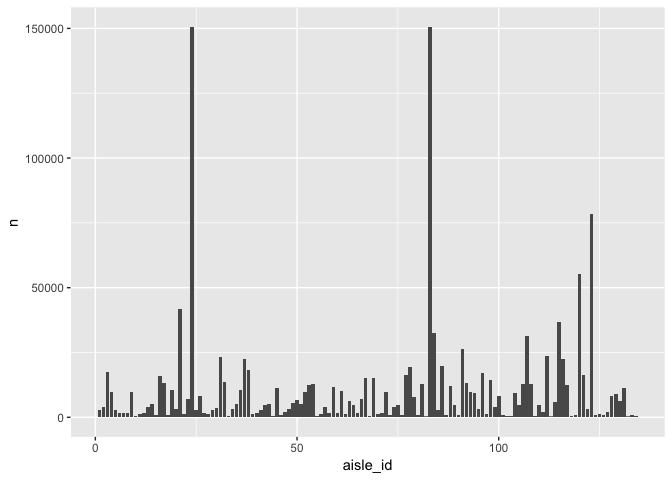
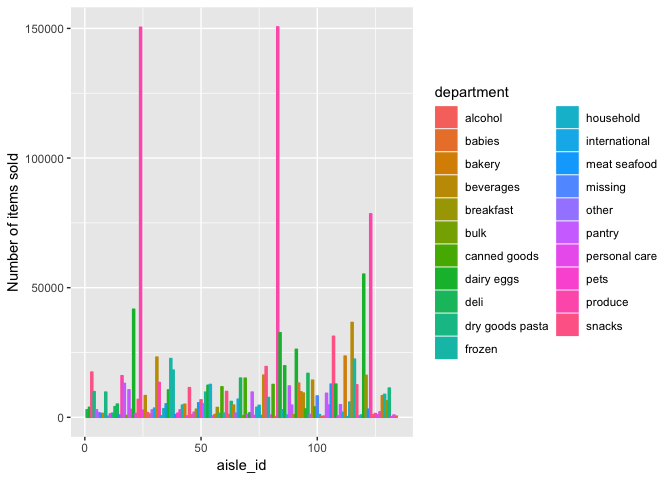
final

diff --git a/p8105_hw3_zdz2101.md b/p8105_hw3_zdz2101.md
@@ -22,9 +22,7 @@ This problem uses the BRFSS data. DO NOT include this dataset in your local data
 
 First, do some data cleaning:
 
-format the data to use appropriate variable names; focus on the “Overall Health” topic include only responses from “Excellent” to “Poor” organize responses as a factor taking levels from “Excellent” to “Poor” Using this dataset, do or answer the following (commenting on the results of each):
-
-In 2002, which states were observed at 7 locations? Make a “spaghetti plot” that shows the number of observations in each state from 2002 to 2010. Make a table showing, for the years 2002, 2006, and 2010, the mean and standard deviation of the proportion of “Excellent” responses across locations in NY State. For each year and state, compute the average proportion in each response category (taking the average across locations in a state). Make a five-panel plot that shows, for each response category separately, the distribution of these state-level averages over time.
+format the data to use appropriate variable names; focus on the “Overall Health” topic include only responses from “Excellent” to “Poor” organize responses as a factor taking levels from “Excellent” to “Poor”
 
 ``` r
 data("brfss_smart2010")
@@ -32,8 +30,13 @@ brfss_smart2010 <- brfss_smart2010 %>%
   janitor::clean_names() %>%
   filter(topic == "Overall Health") %>%
   mutate(response = factor(response, levels = c("Poor", "Fair", "Good", "Very good", "Excellent")))
+```
 
-#In 2002, which states were observed at 7 locations?
+#### Using this dataset, do or answer the following (commenting on the results of each):
+
+#### In 2002, which states were observed at 7 locations?
+
+``` r
 locations_2002 <- brfss_smart2010 %>%
   filter(year == 2002) %>%
   group_by(locationabbr, locationdesc) %>%
@@ -41,58 +44,75 @@ locations_2002 <- brfss_smart2010 %>%
   group_by(locationabbr) %>%
   count(locationabbr) %>%
   filter(n == 7)
+locations_2002
 ```
+
+    ## # A tibble: 3 x 2
+    ## # Groups:   locationabbr [3]
+    ##   locationabbr     n
+    ##   <chr>        <int>
+    ## 1 CT               7
+    ## 2 FL               7
+    ## 3 NC               7
 
 There are 3 states that were observed at 7 locations: Connecticut, Florida, North Carolina.
 
+#### Make a “spaghetti plot” that shows the number of observations in each state from 2002 to 2010.
+
 ``` r
-#Spaghetti plot
-spaghetti_plot<- brfss_smart2010 %>%
+brfss_smart2010 %>%
   group_by(locationabbr, locationdesc, year) %>%
   distinct(locationdesc) %>%
   group_by(locationabbr, year) %>%
   count(locationabbr) %>%
-  ggplot(.,aes(x = year, y = n, color = locationabbr)) + geom_line()
-
-spaghetti_plot
+  ggplot(.,aes(x = year, y = n, color = locationabbr)) +
+  geom_line() +
+  ylab("Number of observed locations")
 ```
 
 ![](p8105_hw3_zdz2101_files/figure-markdown_github/Problem%201.2-1.png)
 
+There seems to be this wild outlier-like blip in 2007 by Florida that happens again in 2010. Otherwise, it looks like majority of the states stayed pretty stable throughout the years.
+
+#### Make a table showing, for the years 2002, 2006, and 2010, the mean and standard deviation of the proportion of “Excellent” responses across locations in NY State.
+
 ``` r
-#Table
 table_02_06_10 <- brfss_smart2010 %>%
   filter(year %in% c(2002,2006,2010) & locationabbr == "NY" & response == "Excellent") %>%
   group_by(locationabbr, year) %>%
-  summarise(mean(data_value), sd(data_value))
+  summarise(excellent_mean = mean(data_value),
+            excenllent_sd = sd(data_value))
   
 kable(table_02_06_10)
 ```
 
-| locationabbr |  year|  mean(data\_value)|  sd(data\_value)|
-|:-------------|-----:|------------------:|----------------:|
-| NY           |  2002|           24.04000|         4.486424|
-| NY           |  2006|           22.53333|         4.000833|
-| NY           |  2010|           22.70000|         3.567212|
+| locationabbr |  year|  excellent\_mean|  excenllent\_sd|
+|:-------------|-----:|----------------:|---------------:|
+| NY           |  2002|         24.04000|        4.486424|
+| NY           |  2006|         22.53333|        4.000833|
+| NY           |  2010|         22.70000|        3.567212|
+
+The mean proportion of excellent responses in NY state stays somewhere between and 22.53% and 24.04% . There seems to be a trend where the standard deviation seems to decrease over time.
+
+#### For each year and state, compute the average proportion in each response category (taking the average across locations in a state). Make a five-panel plot that shows, for each response category separately, the distribution of these state-level averages over time.
 
 ``` r
-#Each year, state, response category, average proportion
-five_panel_plot <- brfss_smart2010 %>%
+brfss_smart2010 %>%
   group_by(locationabbr, year, response) %>%
-  summarise(mean(data_value)) %>%
-  ggplot(., aes(x = year, y = `mean(data_value)`, color = locationabbr)) + 
+  summarise(avg_prop_response = mean(data_value)) %>%
+  ggplot(., aes(x = year, y = avg_prop_response, color = locationabbr)) + 
   geom_line() +
   facet_grid(~response) +
   theme(axis.text.x = element_text(angle = 45),
         legend.position = "bottom") + 
   guides(colour = guide_legend(nrow = 3))
-
-five_panel_plot
 ```
 
     ## Warning: Removed 3 rows containing missing values (geom_path).
 
 ![](p8105_hw3_zdz2101_files/figure-markdown_github/Problem%201.4-1.png)
+
+It seems the average proportion in each response category stays pretty stable throughout the years in *most* states. With so many states it gets a little hard to interpret which state corresponds to which lines in this 5 paneled plot. But just by eyeballing it, poor response is generally somewhere between 2%-10%, fair response 5%-20%, good response 25%-35%, very good 25%-45%, and excellent response 10%-30%, respectively.
 
 Problem 2
 =========
@@ -101,53 +121,20 @@ This problem uses the Instacart data. DO NOT include this dataset in your local 
 
 The goal is to do some exploration of this dataset. To that end, write a short description of the dataset, noting the size and structure of the data, describing some key variables, and giving illstrative examples of observations. Then, do or answer the following (commenting on the results of each):
 
-How many aisles are there, and which aisles are the most items ordered from? Make a plot that shows the number of items ordered in each aisle. Order aisles sensibly, and organize your plot so others can read it. Make a table showing the most popular item aisles “baking ingredients”, “dog food care”, and “packaged vegetables fruits” Make a table showing the mean hour of the day at which Pink Lady Apples and Coffee Ice Cream are ordered on each day of the week; format this table for human readers (i.e. produce a 2 x 7 table).
-
 ``` r
 data("instacart")
-head(instacart)
+num_unique_orders <- length(unique(instacart$order_id))
+num_unique_products <- length(unique(instacart$product_name))
+num_unique_departments <- length(unique(instacart$department))
 ```
 
-    ## # A tibble: 6 x 15
-    ##   order_id product_id add_to_cart_ord… reordered user_id eval_set
-    ##      <int>      <int>            <int>     <int>   <int> <chr>   
-    ## 1        1      49302                1         1  112108 train   
-    ## 2        1      11109                2         1  112108 train   
-    ## 3        1      10246                3         0  112108 train   
-    ## 4        1      49683                4         0  112108 train   
-    ## 5        1      43633                5         1  112108 train   
-    ## 6        1      13176                6         0  112108 train   
-    ## # ... with 9 more variables: order_number <int>, order_dow <int>,
-    ## #   order_hour_of_day <int>, days_since_prior_order <int>,
-    ## #   product_name <chr>, aisle_id <int>, department_id <int>, aisle <chr>,
-    ## #   department <chr>
+The instacart dataset has 1384617 observations/rows and 15 variables/columns. There were 131209 unique orders made. There are 39123 unique products offered from 21 unique departments.
+
+##### How many aisles are there, and which aisles are the most items ordered from?
 
 ``` r
-length(unique(instacart$order_id))
-```
+num_unique_aisles <- length(unique(instacart$aisle))
 
-    ## [1] 131209
-
-``` r
-length(unique(instacart$user_id))
-```
-
-    ## [1] 131209
-
-``` r
-#How many aisles are there, and which aisles are the most items ordered from?
-length(unique(instacart$aisle))
-```
-
-    ## [1] 134
-
-``` r
-length(unique(instacart$aisle_id))
-```
-
-    ## [1] 134
-
-``` r
 most_items_ordered <- instacart %>%
   group_by(aisle) %>%
   count(aisle) %>%
@@ -166,24 +153,27 @@ head(most_items_ordered)
     ## 5 packaged cheese                41699
     ## 6 water seltzer sparkling water  36617
 
-There are 134 aisles. The top 6 aisles most items ordered from are fresh vegetables, fresh fruits, packaged vegetables fruits, yogurt, packaged cheese, water seltzer sparkling water.
+There are 134 aisles. The top 6 aisles most items ordered from are: fresh vegetables, fresh fruits, packaged vegetables fruits, yogurt, packaged cheese, water seltzer sparkling water. The aisles in which most items ordered seems about right, you would expect to see these "aisles" in grocery stores and supermarkets to take up the most square footage/real estate.
+
+#### Make a plot that shows the number of items ordered in each aisle. Order aisles sensibly, and organize your plot so others can read it.
 
 ``` r
-#Make a plot that shows the number of items ordered in each aisle. Order aisles sensibly, and organize your plot so others can read it.
 instacart %>%
-  group_by(aisle_id) %>%
+  group_by(department, aisle_id) %>%
   count(aisle_id) %>%
   arrange(aisle_id) %>%
-  ggplot(., aes(x = aisle_id, y = n)) +
-  geom_bar(stat="identity")
+  ggplot(., aes(x = aisle_id, y = n, color = department, fill = department)) +
+  geom_bar(stat="identity") +
+  ylab("Number of items sold")
 ```
 
 ![](p8105_hw3_zdz2101_files/figure-markdown_github/Problem%202.2-1.png)
 
-Aisles are ordered numerically.
+Aisles are ordered numerically and colored by the department they belong in. Just how we saw earlier with the fresh vegetables, fresh fruits, etc from the previous question, it is clear they belong in the "produce" department.
+
+#### Make a table showing the most popular item from aisles “baking ingredients”, “dog food care”, and “packaged vegetables fruits”
 
 ``` r
-#Make a table showing the most popular item aisles “baking ingredients”, “dog food care”, and “packaged vegetables fruits”
 most_popular <- instacart %>%
   filter(aisle %in% c("baking ingredients", "dog food care", "packaged vegetables fruits")) %>%
   group_by(aisle) %>%
@@ -232,8 +222,11 @@ kable(most_popular_items)
 | dog food care              | Snack Sticks Chicken & Rice Recipe Dog Treats |            30|
 | packaged vegetables fruits | Organic Baby Spinach                          |          9784|
 
+Among baking ingredients, light brown sugar is the most popular item sold which isn't all too surprising. When you thinking "baking" you think sweets and pastries (or at least I do) and sugar is near-essential ingredient in whatever you make. It is interesting to note how much more, practically &gt;300x more so, that the baby spinach is ordered than the snack sticks & rice recipe dog treats. I suppose this is good information to know how much "space" to dedicate to items/aisles.
+
+#### Make a table showing the mean hour of the day at which Pink Lady Apples and Coffee Ice Cream are ordered on each day of the week; format this table for human readers (i.e. produce a 2 x 7 table).
+
 ``` r
-#Make a table showing the mean hour of the day at which Pink Lady Apples and Coffee Ice Cream are ordered on each day of the week; format this table for human readers (i.e. produce a 2 x 7 table).
 desired_products <- instacart %>%
   filter(product_name %in% c("Pink Lady Apples","Coffee Ice Cream")) %>%
   select(order_hour_of_day, order_dow, product_name) %>%
@@ -250,6 +243,18 @@ kable(desired_products)
 | Coffee Ice Cream |  13.77419|  14.31579|  15.38095|   15.31818|  15.21739|  12.26316|  13.83333|
 | Pink Lady Apples |  13.44118|  11.36000|  11.70213|   14.25000|  11.55172|  12.78431|  11.93750|
 
+``` r
+desired_products_rounded <- round(desired_products[,-1])
+kable(cbind(desired_products[,1], desired_products_rounded))
+```
+
+| Product          |  Sunday|  Monday|  Tuesday|  Wednesday|  Thursday|  Friday|  Saturday|
+|:-----------------|-------:|-------:|--------:|----------:|---------:|-------:|---------:|
+| Coffee Ice Cream |      14|      14|       15|         15|        15|      12|        14|
+| Pink Lady Apples |      13|      11|       12|         14|        12|      13|        12|
+
+Important to note that in the first table this is in terms of a "mean" hour of the day and in military/24 hour time. For example, a mean time of 13.5 would be 1:30pm. In terms of decimals, every 0.25 is equivalent to 15 minutes. However, our original data was in integer data/whole hour time so I thought it would be worth it to see the resulting table in rounded form (traditional rounding, &gt;0.5 rounds up, round down otherwise). Coffee Ice cream generally sells in the afternoon, a little earlier so on Saturdays interestingly enough. Pink Lady apples are also generally sold mid-day, from 11-14 hours (11am - 2pm).
+
 Problem 3
 =========
 
@@ -257,7 +262,7 @@ This problem uses the NY NOAA data. DO NOT include this dataset in your local da
 
 The goal is to do some exploration of this dataset. To that end, write a short description of the dataset, noting the size and structure of the data, describing some key variables, and indicating the extent to which missing data is an issue. Then, do or answer the following (commenting on the results of each):
 
-Do some data cleaning. Create separate variables for year, month, and day. Ensure observations for temperature, precipitation, and snowfall are given in reasonable units. For snowfall, what are the most commonly observed values? Why? Make a two-panel plot showing the average temperature in January and in July in each station across years. Is there any observable / interpretable structure? Any outliers? Make a two-panel plot showing (i) tmax vs tmin for the full dataset (note that a scatterplot may not be the best option); and (ii) make a plot showing the distribution of snowfall values greater than 0 and less than 100 separately by year.
+Do some data cleaning. Create separate variables for year, month, and day. Ensure observations for temperature, precipitation, and snowfall are given in reasonable units. For snowfall, what are the most commonly observed values? Why?
 
 ``` r
 data("ny_noaa")
@@ -266,32 +271,31 @@ ny_noaa <- ny_noaa %>%
          snow = snow/10,
          snwd = snwd/10,
          tmax = as.numeric(tmax)/10,
-         tmin = as.numeric(tmin)/10) 
+         tmin = as.numeric(tmin)/10,
+         year = year(date),
+         month = month(date),
+         day = weekdays(date))
 
 #summary(ny_noaa$date) -- everyday 1/1/81 - 12/31/10
 ```
 
-The ny\_noaa dataset is quite large, 2595176 observations with 7 variables. A little breakdown of each variable: - There are 747 unique different id's in this dataset. - Dates range for a 30 year span from January 1st, 1981 to December 31st, 2010.
+The ny\_noaa dataset is quite large, 2595176 observations with 10 variables. A little breakdown of each variable: - There are 747 unique different id's in this dataset. - Dates range for a 30 year span from January 1st, 1981 to December 31st, 2010.
 
 ``` r
 kable(t(apply(ny_noaa[,3:7], 2, summary)))
 ```
 
-|         |      Min.|     1st Qu.|    Median|           Mean|    3rd Qu.|       Max.|                                                                                   NA's|
-|---------|---------:|-----------:|---------:|--------------:|----------:|----------:|--------------------------------------------------------------------------------------:|
-| prcp    |       0.0|         0.0|       0.0|      2.9823236|        2.3|     2286.0|                                                                                 145838|
-| snow    |      -1.3|         0.0|       0.0|      0.4987025|        0.0|     1016.0|                                                                                 381221|
-| snwd    |       0.0|         0.0|       0.0|      3.7312281|        0.0|      919.5|                                                                                 591786|
-| tmax    |     -38.9|         5.0|      15.0|     13.9798384|       23.3|       60.0|                                                                                1134358|
-| tmin    |     -59.4|        -3.9|       3.3|      3.0285374|       11.1|       60.0|                                                                                1134420|
-| It seem |  s NAs ar|  e quite an|  issue ac|  rosos most of|  the numer|  ical vari|  ables but especially so in the temperature, where almost half of the values are NA's.|
+|      |   Min.|  1st Qu.|  Median|        Mean|  3rd Qu.|    Max.|     NA's|
+|------|------:|--------:|-------:|-----------:|--------:|-------:|--------:|
+| prcp |    0.0|      0.0|     0.0|   2.9823236|      2.3|  2286.0|   145838|
+| snow |   -1.3|      0.0|     0.0|   0.4987025|      0.0|  1016.0|   381221|
+| snwd |    0.0|      0.0|     0.0|   3.7312281|      0.0|   919.5|   591786|
+| tmax |  -38.9|      5.0|    15.0|  13.9798384|     23.3|    60.0|  1134358|
+| tmin |  -59.4|     -3.9|     3.3|   3.0285374|     11.1|    60.0|  1134420|
+
+It seems NAs are quite an issue across most of the numerical variables but especially so in the temperature columns, where almost half of the values are NA's.
 
 ``` r
-ny_noaa <- ny_noaa %>%
-  mutate(., year = year(date),
-         month = month(date),
-         day = weekdays(date))
-
 ny_noaa %>%
   group_by(snow) %>%
   count(snow)
@@ -315,6 +319,8 @@ ny_noaa %>%
 
 The most observed snowfall value is 0 which is unsurprising, considering it does not snow for *most* of the year.
 
+#### Make a two-panel plot showing the average temperature in January and in July in each station across years. Is there any observable / interpretable structure? Any outliers?
+
 ``` r
 ny_noaa %>%
   filter(month %in% c(1,7)) %>%
@@ -332,13 +338,28 @@ ny_noaa %>%
 
 I would not say there is any sort of particular interpretable structure beyond the fact that you can see that temperature varies within stations on a per year basis and that on average the weather stays within a ~20 degrees Celsius window throughout the years for borth January and July as a whole. There does seem to be one outlier though from one stayion in the late 80s in July that dipped much lower than usual.
 
-``` r
-temp_plot <- ggplot(ny_noaa, aes(x = tmin, y = tmax)) + geom_hex()
+#### Make a two-panel plot showing (i) tmax vs tmin for the full dataset (note that a scatterplot may not be the best option); and (ii) make a plot showing the distribution of snowfall values greater than 0 and less than 100 separately by year.
 
+``` r
+funky_temps <- ny_noaa[which(ny_noaa$tmin > ny_noaa$tmax),]
+
+temp_plot <- ggplot(ny_noaa, aes(x = tmin, y = tmax)) + 
+  geom_hex() +
+  xlim(-60, 60) +
+  ylim(-60, 60)
+  geom_abline(intercept = 0, slope = 1, color = "red") 
+```
+
+    ## mapping: intercept = ~intercept, slope = ~slope 
+    ## geom_abline: na.rm = FALSE
+    ## stat_identity: na.rm = FALSE
+    ## position_identity
+
+``` r
 snow_plot <- ny_noaa %>%
   filter(snow > 0 & snow < 100) %>%
   mutate(year = as.factor(year)) %>%
-  ggplot(., aes(x = year, y = snow)) + 
+  ggplot(., aes(x = year, y = snow)) +
   geom_boxplot() + 
   coord_flip()
 
@@ -347,4 +368,8 @@ ggarrange(temp_plot, snow_plot, ncol = 2, nrow = 1)
 
     ## Warning: Removed 1136276 rows containing non-finite values (stat_binhex).
 
+    ## Warning: Removed 5 rows containing missing values (geom_hex).
+
 ![](p8105_hw3_zdz2101_files/figure-markdown_github/2%20panel%20snow%20temp-1.png)
+
+For the first panel, the tmax vs tmin plot, there were over a million values to be plotted so it was better to use a density-based plot. It is interesting to see that there are a decent amount of values where tmin seems to be great than tmax (anything right of the y = x line). This does not make much sense, in fact there are 1183 observations where this is seen. For the sefcond panel, we see that there is a lot of outliers in in all years but in general the IQR (along with the median) stays pretty consistent throughout the years.
